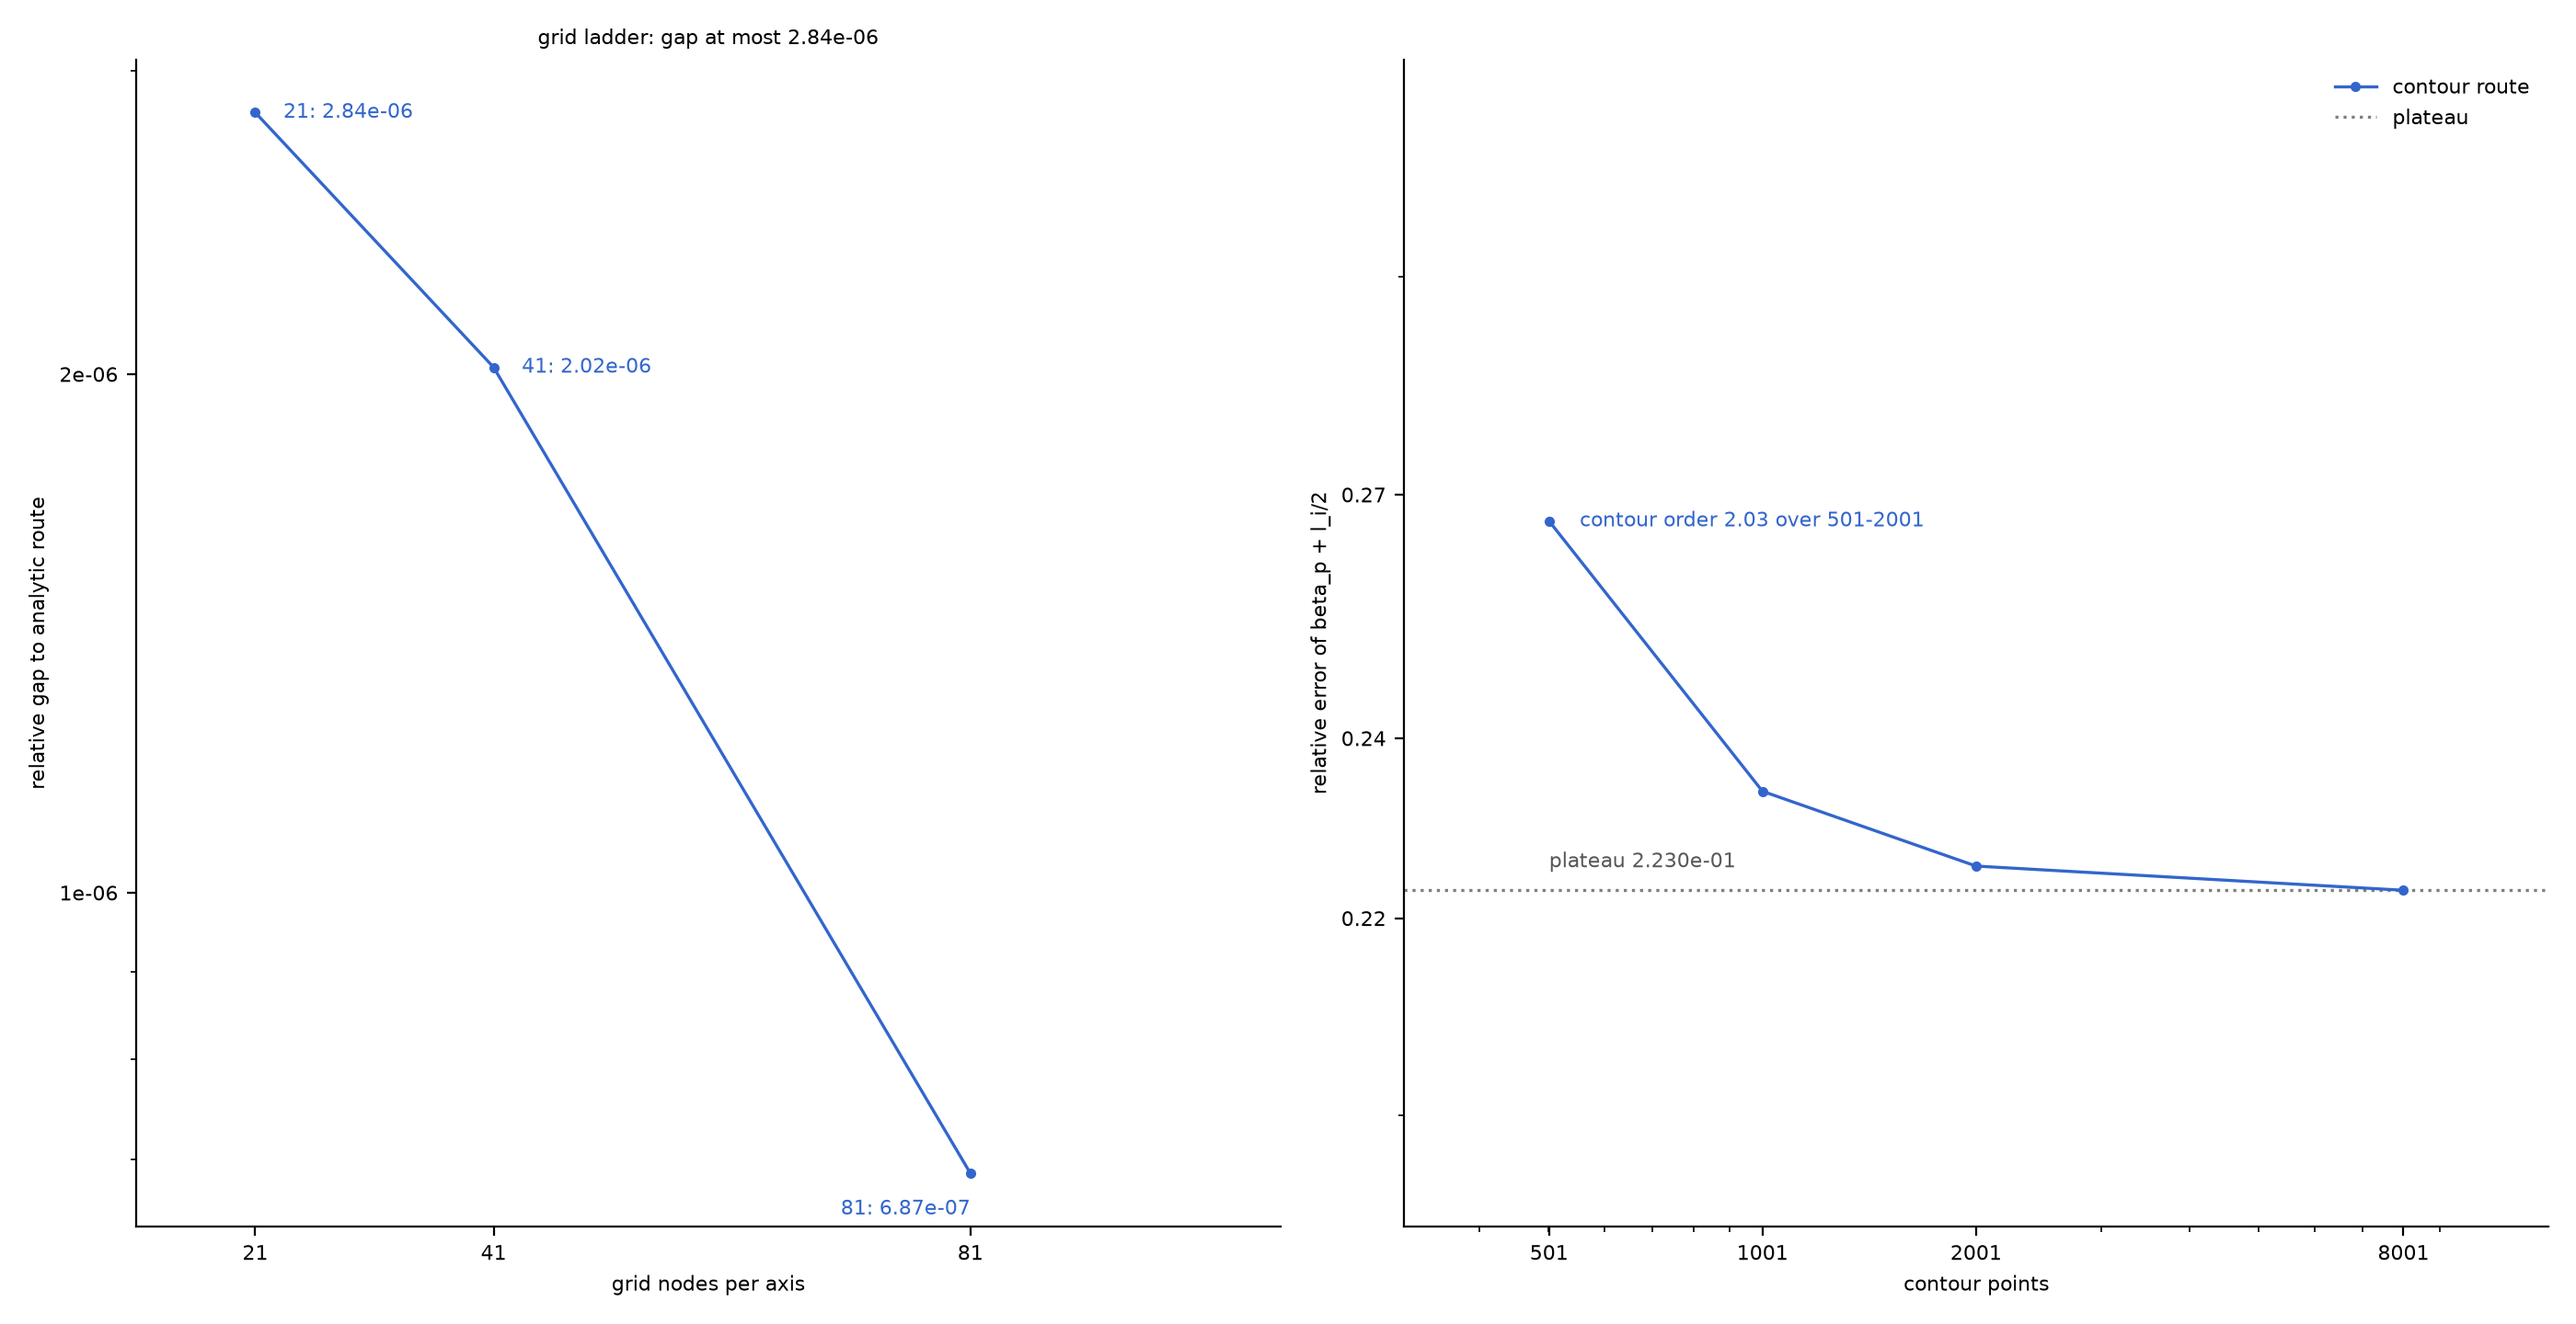
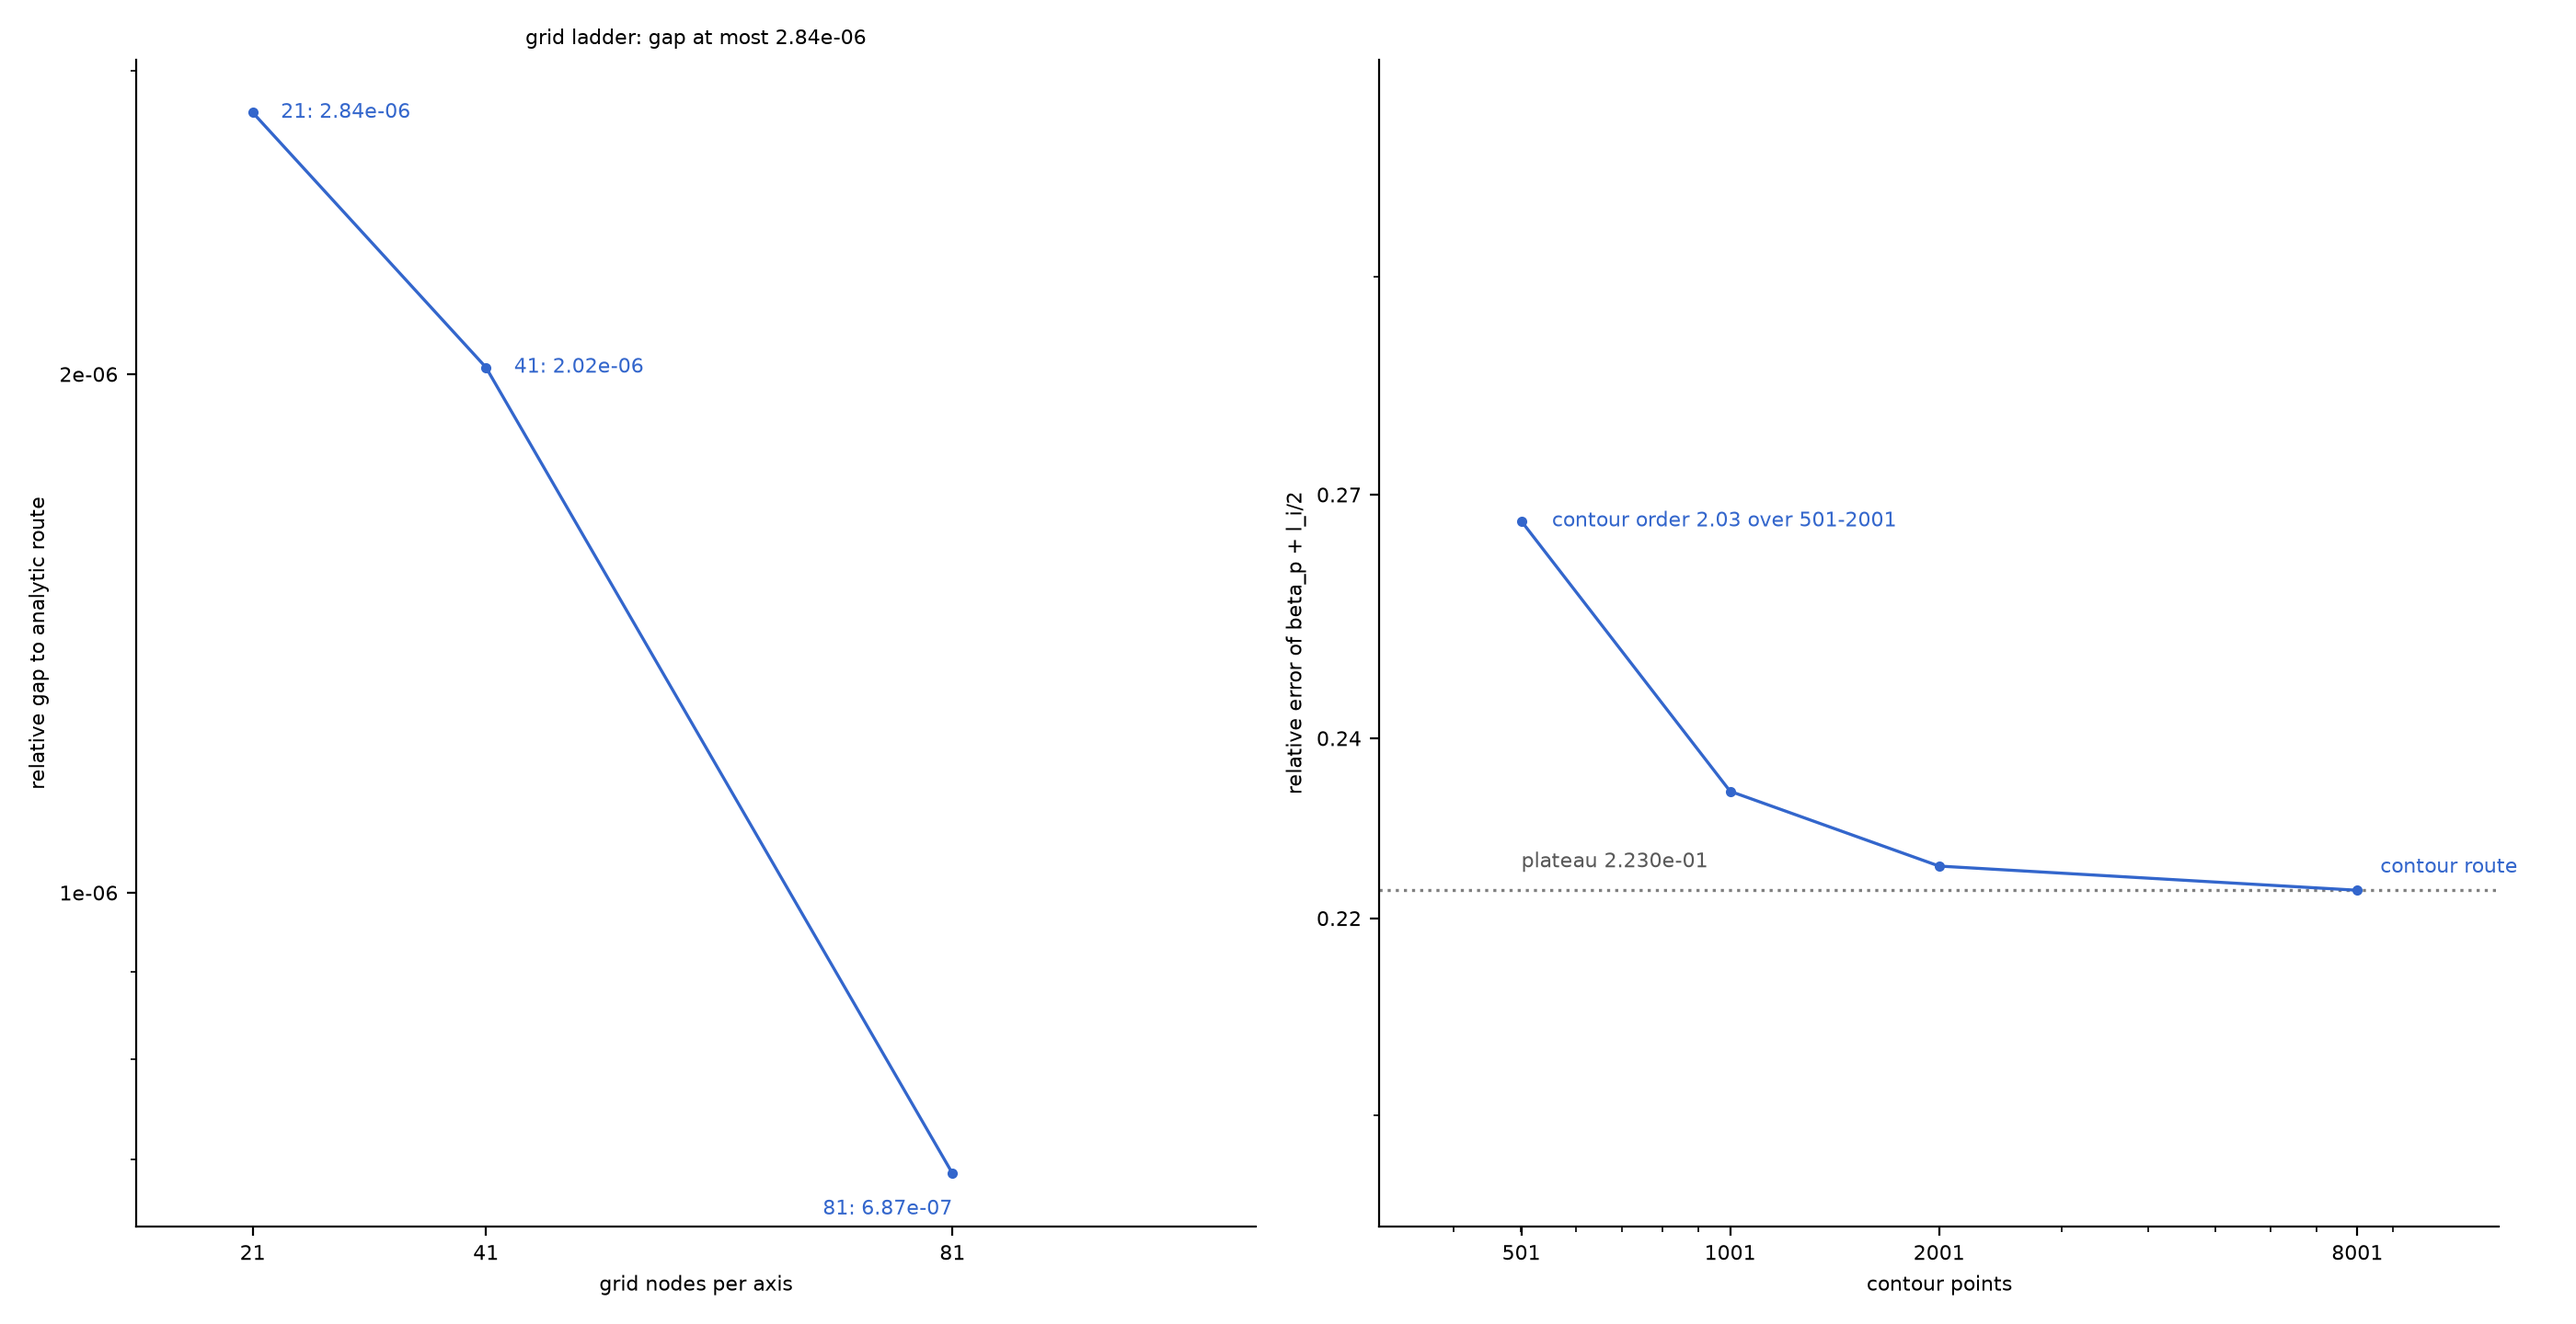
fix(figures): derive the certificate ticks and labels from its receipt
The redrawn certificate carried two axis tick values and a contour-route
legend entry that no receipt key held, which is the same shape of defect the
figure audit recorded against the old caption numbers. Both tick sets are now
computed from the ladder and written into the receipt as grid_tick_values and
contour_tick_values, and the duplicate legend entry for the plateau is dropped
in favour of the direct label already sitting on that boundary. Every number
the figure draws or labels now traces to a receipt path.

The evidence fragment names that boundary as the receipt's limit key and
records that the axis ticks are receipt keys too. The figure is regenerated by
the same script, whose mechanical audit refuses clipped, overlapping or
data-covering text before either file is written.

diff --git a/docs/evidence/fragments/shafranov-observed-side/sos-grid-route-current-rule.html b/docs/evidence/fragments/shafranov-observed-side/sos-grid-route-current-rule.html
@@ -16,7 +16,12 @@
   analytic route fits a contour-sampling order of <strong>2.03</strong> over
   samplings 501 to 2001. The figure's right panel is that ladder: the relative
   error of β<sub>p</sub> + l<sub>i</sub>/2 falls from 2.67e-01 at 501 contour
-  points and settles onto the plateau 2.230e-01 by 8001.</p>
+  points and settles onto the plateau 2.230e-01 by 8001. The dotted boundary
+  across that panel is that plateau, which is the receipt's <code>limit</code>
+  key and is labelled in the panel; no reference line is left unnamed. The
+  axis ticks on both panels are receipt keys too
+  (<code>grid_tick_values</code>, <code>contour_tick_values</code>), so every
+  number the figure draws is one the receipt carries.</p>
 
   <figure id="sos-grid-route-current-rule-figure">
     <img src="/nova/figures/constraint-augmented-newton-krylov/shafranov-integral/shafranov-integral-certificate.svg"
@@ -25,7 +30,7 @@
     — the grid-imaged route's gap to the analytic route at 21, 41 and 81 nodes
     per axis, at most 2.84e-06. Right: the contour-sampling ladder, whose
     departure from the plateau 2.230e-01 fits order 2.03 over 501 to 2001.
-    Every plotted number is a key in
+    Every number plotted or labelled, the axis ticks included, is a key in
     <code>docs/figures/constraint-augmented-newton-krylov/shafranov-integral/receipt.json</code>.</figcaption>
   </figure>
 

diff --git a/scripts/render_shafranov_integral_certificate.py b/scripts/render_shafranov_integral_certificate.py
@@ -13,6 +13,7 @@ Run it from the repository root:
 
 import importlib.util
 import json
+import math
 from pathlib import Path
 
 import matplotlib
@@ -112,6 +113,24 @@ def _check_artists(figure, direct_labels, series):
         )
 
 
+def _grid_ticks(receipt):
+    """The grid panel's log-axis ticks, derived from the gaps it plots."""
+    decade = 10.0 ** round(math.log10(min(receipt["grid_gap"])))
+    return [decade, 2.0 * decade]
+
+
+def _contour_ticks(receipt):
+    """The contour panel's ticks, derived from the ladder and its plateau."""
+    limit = receipt["limit"]
+    return sorted(
+        {
+            round(limit, 2),
+            round((limit + max(receipt["errors"])) / 2.0, 2),
+            round(max(receipt["errors"]), 2),
+        }
+    )
+
+
 def _quiet_log_axis(axes):
     """Drop log minor labels and matplotlib's offset multiplier."""
     axes.xaxis.set_minor_formatter(NullFormatter())
@@ -175,7 +194,7 @@ def _plot(receipt):
     grid_axes.set_xlabel("grid nodes per axis", fontsize=ink.label_fontsize)
     grid_axes.set_ylabel("relative gap to analytic route", fontsize=ink.label_fontsize)
     grid_axes.set_xticks(resolutions)
-    grid_axes.set_yticks([1.0e-6, 2.0e-6])
+    grid_axes.set_yticks(receipt["grid_tick_values"])
     grid_axes.set_title(
         f"grid ladder: gap at most {receipt['grid_gap_max']:.2e}",
         fontsize=ink.label_fontsize,
@@ -193,7 +212,6 @@ def _plot(receipt):
         linewidth=ink.trace_linewidth,
         marker="o",
         markersize=ink.trace_markersize,
-        label="contour route",
         zorder=ink.zorder_markers,
     )
     series.append(contour_line)
@@ -202,7 +220,6 @@ def _plot(receipt):
         color="0.5",
         linewidth=1.2,
         linestyle=":",
-        label="plateau",
         zorder=ink.zorder_flux,
     )
     contour_axes.set_xscale("log")
@@ -212,14 +229,7 @@ def _plot(receipt):
         FuncFormatter(lambda value, _: f"{value:.2f}")
     )
     contour_axes.set_ylim(limit * 0.85, max(errors) * 1.25)
-    ticks = sorted(
-        {
-            round(limit, 2),
-            round((limit + max(errors)) / 2.0, 2),
-            round(max(errors), 2),
-        }
-    )
-    contour_axes.set_yticks(ticks)
+    contour_axes.set_yticks(receipt["contour_tick_values"])
     contour_axes.set_xlim(samplings[0] / 1.6, samplings[-1] * 1.6)
     contour_axes.set_xlabel("contour points", fontsize=ink.label_fontsize)
     contour_axes.set_ylabel(
@@ -227,7 +237,6 @@ def _plot(receipt):
     )
     contour_axes.set_xticks(samplings)
     contour_axes.set_xticklabels([str(value) for value in samplings])
-    contour_axes.legend(frameon=False, fontsize=ink.label_fontsize, loc="upper right")
     direct_labels.append(
         contour_axes.annotate(
             f"plateau {limit:.3e}",
@@ -252,6 +261,20 @@ def _plot(receipt):
         )
     )
 
+    direct_labels.append(
+        contour_axes.annotate(
+            "contour route",
+            (samplings[-1], errors[-1]),
+            textcoords="offset points",
+            xytext=(9, 9),
+            ha="left",
+            va="center",
+            fontsize=ink.label_fontsize,
+            color=ink.flux_color,
+            zorder=ink.zorder_label,
+        )
+    )
+
     figure.tight_layout()
     return figure, direct_labels, series
 
@@ -260,6 +283,8 @@ def main():
     module = _load_test_module()
     receipt = module._grid_route_ladder()
     receipt["identity"] = module._identity_ladder()
+    receipt["grid_tick_values"] = _grid_ticks(receipt)
+    receipt["contour_tick_values"] = _contour_ticks(receipt)
     RECEIPT.write_text(json.dumps(receipt, indent=2) + "\n")
 
     figure, direct_labels, series = _plot(receipt)
